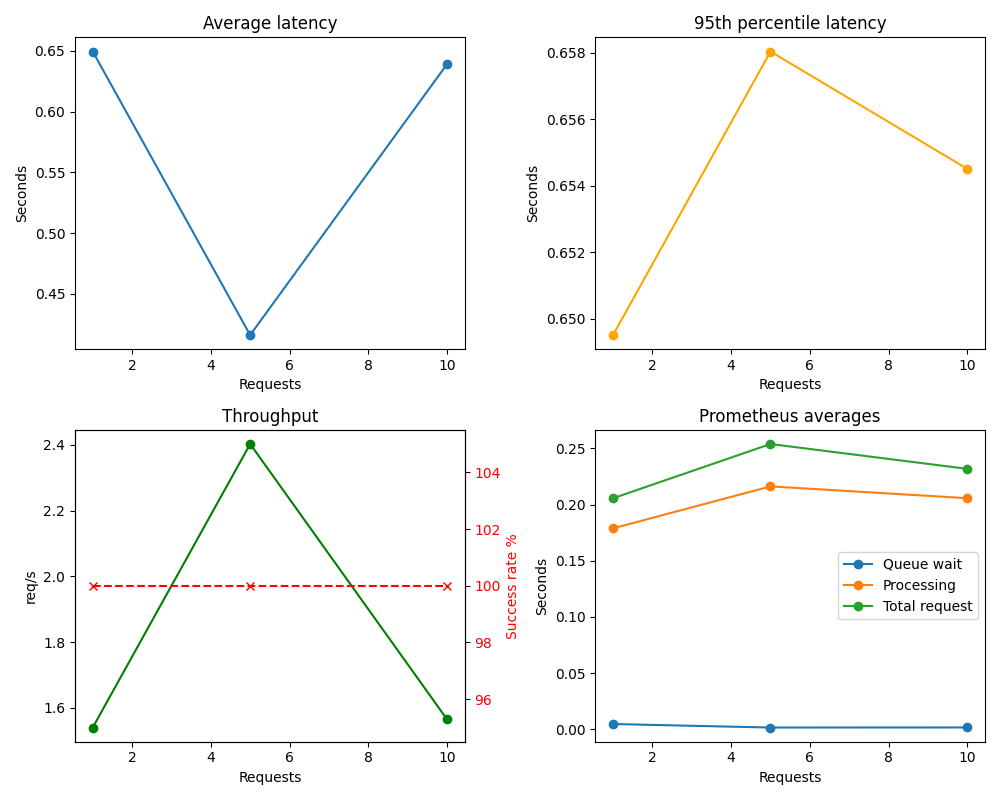
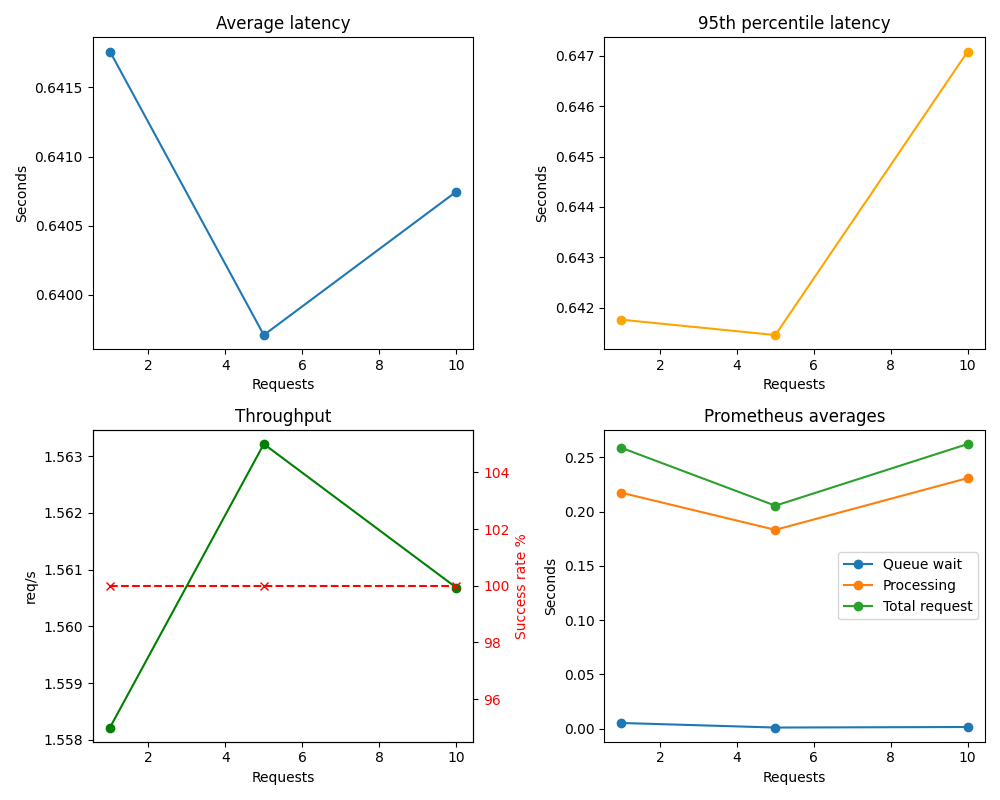
update with first attempt of testing and new readme more detailed

diff --git a/event-driven/scripts/extract_openmp_metrics.py b/event-driven/scripts/extract_openmp_metrics.py
@@ -1,0 +1,383 @@
+#!/usr/bin/env python3
+"""
+OpenMP Performance Metrics Extractor for Event-Driven System
+
+This script extracts and analyzes OpenMP performance metrics from the grayscale service,
+focusing on processing times across different thread counts. It can either:
+1. Extract metrics from Prometheus endpoints
+2. Run a controlled test with different thread configurations
+3. Generate detailed performance report
+
+Usage:
+  python3 extract_openmp_metrics.py --mode prometheus
+  python3 extract_openmp_metrics.py --mode test --image images/test.jpg --threads 1,2,4,6
+  python3 extract_openmp_metrics.py --mode report --output openmp_report.csv
+"""
+import argparse
+import csv
+import json
+import re
+import statistics
+import sys
+import time
+from collections import defaultdict
+
+import matplotlib.pyplot as plt
+import requests
+
+# Default settings
+FRONTEND_URL = "http://localhost:8080/"
+METRICS_URL = "http://localhost:8001/"
+
+
+def extract_prometheus_metrics():
+    """Extract OpenMP processing time metrics from Prometheus endpoint"""
+    try:
+        print("Fetching OpenMP processing metrics from Prometheus...")
+        response = requests.get(METRICS_URL, timeout=5)
+        
+        if response.status_code != 200:
+            print(f"Error: Failed to retrieve metrics (HTTP {response.status_code})")
+            return None
+            
+        metrics = response.text
+        
+        # Extract processing time metrics
+        process_time_data = {}
+        
+        # Extract histogram buckets
+        process_buckets = {}
+        bucket_pattern = r'grayscale_process_seconds_bucket\{le="([^"]+)"\}\s+([\d\.]+)'
+        for match in re.finditer(bucket_pattern, metrics):
+            bucket = float(match.group(1))
+            count = float(match.group(2))
+            process_buckets[bucket] = count
+            
+        # Extract sum and count
+        sum_match = re.search(r'grayscale_process_seconds_sum\s+([\d\.]+)', metrics)
+        count_match = re.search(r'grayscale_process_seconds_count\s+([\d\.]+)', metrics)
+        
+        if sum_match and count_match:
+            total_sum = float(sum_match.group(1))
+            total_count = int(float(count_match.group(1)))
+            avg_time = total_sum / total_count if total_count > 0 else 0
+            
+            process_time_data = {
+                "total_sum": total_sum,
+                "total_count": total_count,
+                "average_time": avg_time,
+                "buckets": process_buckets
+            }
+            
+            # Calculate approximate percentiles from buckets
+            if process_buckets:
+                sorted_buckets = sorted(process_buckets.items())
+                if len(sorted_buckets) > 1:
+                    p50_idx = int(total_count * 0.5)
+                    p95_idx = int(total_count * 0.95)
+                    p99_idx = int(total_count * 0.99)
+                    
+                    # Find bucket that contains the percentile
+                    current_count = 0
+                    for bucket, count in sorted_buckets:
+                        if current_count < p50_idx <= count:
+                            process_time_data["p50"] = bucket
+                        if current_count < p95_idx <= count:
+                            process_time_data["p95"] = bucket
+                        if current_count < p99_idx <= count:
+                            process_time_data["p99"] = bucket
+                        current_count = count
+        
+        # Get failure metrics
+        failure_match = re.search(r'grayscale_failures_total\s+([\d\.]+)', metrics)
+        if failure_match:
+            process_time_data["failures"] = int(float(failure_match.group(1)))
+            
+        return process_time_data
+    
+    except Exception as e:
+        print(f"Error extracting metrics: {e}")
+        return None
+
+
+def run_controlled_test(image_path, threads, repeats=3):
+    """
+    Run a controlled test with specific thread counts and measure OpenMP performance
+    
+    Args:
+        image_path: Path to test image
+        threads: List of thread counts to test
+        repeats: Number of times to repeat each test for statistical significance
+    """
+    thread_results = {}
+    
+    print(f"Running controlled test with thread counts {threads}, {repeats} repeats each")
+    
+    for thread_count in threads:
+        thread_times = []
+        
+        print(f"\nTesting with {thread_count} threads:")
+        for i in range(repeats):
+            print(f"  Repeat {i+1}/{repeats}...", end="", flush=True)
+            
+            try:
+                # Submit with specified thread count
+                with open(image_path, 'rb') as f:
+                    files = {'image': f}
+                    data = {'threads': [thread_count], 'repeat': 1}  # Just one repeat per submission
+                    
+                    # Submit request
+                    start_time = time.time()
+                    resp = requests.post(FRONTEND_URL, files=files, data=data)
+                    
+                    if resp.status_code != 200:
+                        print(f" Failed (HTTP {resp.status_code})")
+                        continue
+                        
+                    # Extract key to poll for results
+                    m = re.search(r'/status\?key=([^"\']+)', resp.text)
+                    if not m:
+                        print(" Failed (Key not found)")
+                        continue
+                        
+                    key = m.group(1)
+                    
+                    # Poll for completion
+                    while True:
+                        time.sleep(0.5)
+                        st = requests.get(f"{FRONTEND_URL}status", params={'key': key})
+                        if st.status_code != 200:
+                            print(" Failed (Status error)")
+                            break
+                            
+                        data = st.json()
+                        if data.get('processed'):
+                            # Extract the processing time for this thread count
+                            elapsed = time.time() - start_time
+                            thread_time = data.get('times', {}).get(str(thread_count))
+                            
+                            if thread_time is not None:
+                                thread_times.append(thread_time)
+                                print(f" Done ({thread_time:.3f}s)")
+                            else:
+                                print(" Done (No timing data)")
+                            break
+            
+            except Exception as e:
+                print(f" Error: {e}")
+        
+        # Calculate statistics if we have results
+        if thread_times:
+            thread_results[thread_count] = {
+                "times": thread_times,
+                "mean": statistics.mean(thread_times),
+                "min": min(thread_times),
+                "max": max(thread_times),
+                "stddev": statistics.stdev(thread_times) if len(thread_times) > 1 else 0
+            }
+    
+    # Calculate speedup relative to thread_count=1
+    if 1 in thread_results and thread_results[1]["mean"] > 0:
+        base_time = thread_results[1]["mean"]
+        for tc in thread_results:
+            thread_results[tc]["speedup"] = base_time / thread_results[tc]["mean"]
+    
+    return thread_results
+
+
+def generate_report(output_file=None):
+    """
+    Generate a comprehensive report of OpenMP performance by collecting
+    and analyzing metrics from recent tests.
+    """
+    # First get current metrics
+    metrics = extract_prometheus_metrics()
+    
+    if not metrics:
+        print("Error: Unable to retrieve metrics for report")
+        return False
+    
+    # Try to get processed job information from frontend
+    processed_jobs = defaultdict(list)
+    try:
+        # Fetch the most recent jobs (just informational, might not be available)
+        r = requests.get(FRONTEND_URL + "metrics")
+        if r.status_code == 200:
+            # Count processed jobs
+            count_match = re.search(r'frontend_processed_total\s+([\d\.]+)', r.text)
+            if count_match:
+                processed_count = int(float(count_match.group(1)))
+                print(f"Total processed jobs: {processed_count}")
+    except:
+        pass  # Ignore frontend metrics errors
+    
+    # Prepare report data
+    report_data = {
+        "timestamp": time.strftime("%Y-%m-%d %H:%M:%S"),
+        "metrics": metrics,
+        "processed_jobs": dict(processed_jobs),
+    }
+    
+    # Print summary
+    print("\nOpenMP Performance Summary:")
+    print(f"Total executions: {metrics['total_count']}")
+    print(f"Average execution time: {metrics['average_time']:.3f} seconds")
+    if "p50" in metrics:
+        print(f"Median execution time: <= {metrics['p50']:.3f} seconds")
+    if "p95" in metrics:
+        print(f"95th percentile execution time: <= {metrics['p95']:.3f} seconds")
+    if "failures" in metrics:
+        print(f"Failed executions: {metrics['failures']}")
+    
+    # Save to file if requested
+    if output_file:
+        if output_file.endswith('.json'):
+            with open(output_file, 'w') as f:
+                json.dump(report_data, f, indent=2)
+        elif output_file.endswith('.csv'):
+            # Write a simplified CSV with bucket information
+            with open(output_file, 'w', newline='') as f:
+                writer = csv.writer(f)
+                writer.writerow(['Metric', 'Value'])
+                writer.writerow(['Timestamp', report_data['timestamp']])
+                writer.writerow(['Total Count', metrics['total_count']])
+                writer.writerow(['Average Time', metrics['average_time']])
+                if "p50" in metrics:
+                    writer.writerow(['P50', metrics['p50']])
+                if "p95" in metrics:
+                    writer.writerow(['P95', metrics['p95']])
+                if "p99" in metrics:
+                    writer.writerow(['P99', metrics['p99']])
+                if "failures" in metrics:
+                    writer.writerow(['Failures', metrics['failures']])
+                
+                writer.writerow([])
+                writer.writerow(['Bucket', 'Count'])
+                for bucket, count in sorted(metrics['buckets'].items()):
+                    writer.writerow([bucket, count])
+        else:
+            # Default to text format
+            with open(output_file, 'w') as f:
+                f.write("OpenMP Performance Report\n")
+                f.write(f"Generated: {report_data['timestamp']}\n\n")
+                f.write(f"Total executions: {metrics['total_count']}\n")
+                f.write(f"Average execution time: {metrics['average_time']:.3f} seconds\n")
+                if "p50" in metrics:
+                    f.write(f"Median execution time: <= {metrics['p50']:.3f} seconds\n")
+                if "p95" in metrics:
+                    f.write(f"95th percentile execution time: <= {metrics['p95']:.3f} seconds\n")
+                if "failures" in metrics:
+                    f.write(f"Failed executions: {metrics['failures']}\n")
+                
+                f.write("\nHistogram Buckets:\n")
+                for bucket, count in sorted(metrics['buckets'].items()):
+                    f.write(f"  <= {bucket:.3f}s: {count}\n")
+        
+        print(f"\nReport saved to {output_file}")
+    
+    return True
+
+
+def plot_thread_scaling(results, output_file="openmp_scaling.png"):
+    """Plot thread scaling results"""
+    if not results:
+        print("No results to plot")
+        return
+        
+    thread_counts = sorted(results.keys())
+    execution_times = [results[tc]["mean"] for tc in thread_counts]
+    speedups = [results[tc].get("speedup", 1.0) for tc in thread_counts]
+    
+    fig, (ax1, ax2) = plt.subplots(1, 2, figsize=(12, 5))
+    
+    # Plot execution time
+    ax1.plot(thread_counts, execution_times, 'o-', color='blue')
+    ax1.set_title('OpenMP Execution Time by Thread Count')
+    ax1.set_xlabel('Thread Count')
+    ax1.set_ylabel('Execution Time (seconds)')
+    ax1.grid(True, linestyle='--', alpha=0.7)
+    
+    # Add error bars showing min/max
+    for tc in thread_counts:
+        min_time = results[tc]["min"]
+        max_time = results[tc]["max"]
+        ax1.plot([tc, tc], [min_time, max_time], 'b-')
+    
+    # Plot speedup
+    ideal_speedup = [tc for tc in thread_counts]  # Ideal linear speedup
+    
+    ax2.plot(thread_counts, speedups, 'o-', color='green', label='Actual')
+    ax2.plot(thread_counts, ideal_speedup, '--', color='red', alpha=0.7, label='Ideal Linear')
+    ax2.set_title('OpenMP Speed-up Factor')
+    ax2.set_xlabel('Thread Count')
+    ax2.set_ylabel('Speed-up Factor')
+    ax2.grid(True, linestyle='--', alpha=0.7)
+    ax2.legend()
+    
+    plt.tight_layout()
+    plt.savefig(output_file)
+    print(f"Thread scaling plot saved to {output_file}")
+
+
+def main():
+    parser = argparse.ArgumentParser(description='Extract and analyze OpenMP performance metrics')
+    parser.add_argument('--mode', choices=['prometheus', 'test', 'report'], default='prometheus',
+                        help='Extraction mode: prometheus=extract from metrics, test=run controlled test, report=generate full report')
+    parser.add_argument('--image', default='images/test.jpg',
+                        help='Image to use for testing (only for test mode)')
+    parser.add_argument('--threads', default='1,2,4,6',
+                        help='Thread counts to test, comma-separated (only for test mode)')
+    parser.add_argument('--repeats', type=int, default=3,
+                        help='Number of repeats per thread count (only for test mode)')
+    parser.add_argument('--output', default=None,
+                        help='Output file for report or plot')
+    args = parser.parse_args()
+    
+    if args.mode == 'prometheus':
+        metrics = extract_prometheus_metrics()
+        if metrics:
+            print("\nOpenMP Processing Time Metrics:")
+            print(f"Total executions: {metrics['total_count']}")
+            print(f"Average time: {metrics['average_time']:.3f} seconds")
+            if "p50" in metrics:
+                print(f"Median time: <= {metrics['p50']:.3f} seconds")
+            if "p95" in metrics:
+                print(f"95th percentile: <= {metrics['p95']:.3f} seconds")
+            if "failures" in metrics:
+                print(f"Failures: {metrics['failures']}")
+        else:
+            print("Failed to extract metrics")
+            
+    elif args.mode == 'test':
+        thread_counts = [int(t) for t in args.threads.split(',')]
+        results = run_controlled_test(args.image, thread_counts, args.repeats)
+        
+        if results:
+            print("\nThread Scaling Results:")
+            if 1 in results:
+                base_time = results[1]["mean"]
+                print(f"Baseline (1 thread): {base_time:.3f}s")
+                
+            for tc in sorted(results.keys()):
+                res = results[tc]
+                speedup = res.get("speedup", 1.0)
+                efficiency = speedup / tc if tc > 0 else 1.0
+                
+                print(f"Threads: {tc}, "
+                      f"Time: {res['mean']:.3f}s ({res['min']:.3f}-{res['max']:.3f}), "
+                      f"Speedup: {speedup:.2f}x, "
+                      f"Efficiency: {efficiency*100:.1f}%")
+            
+            # Generate plot
+            output_file = args.output or "openmp_scaling.png"
+            plot_thread_scaling(results, output_file)
+            
+    elif args.mode == 'report':
+        output_file = args.output or "openmp_report.txt"
+        generate_report(output_file)
+    
+    return 0
+
+
+if __name__ == "__main__":
+    sys.exit(main())
